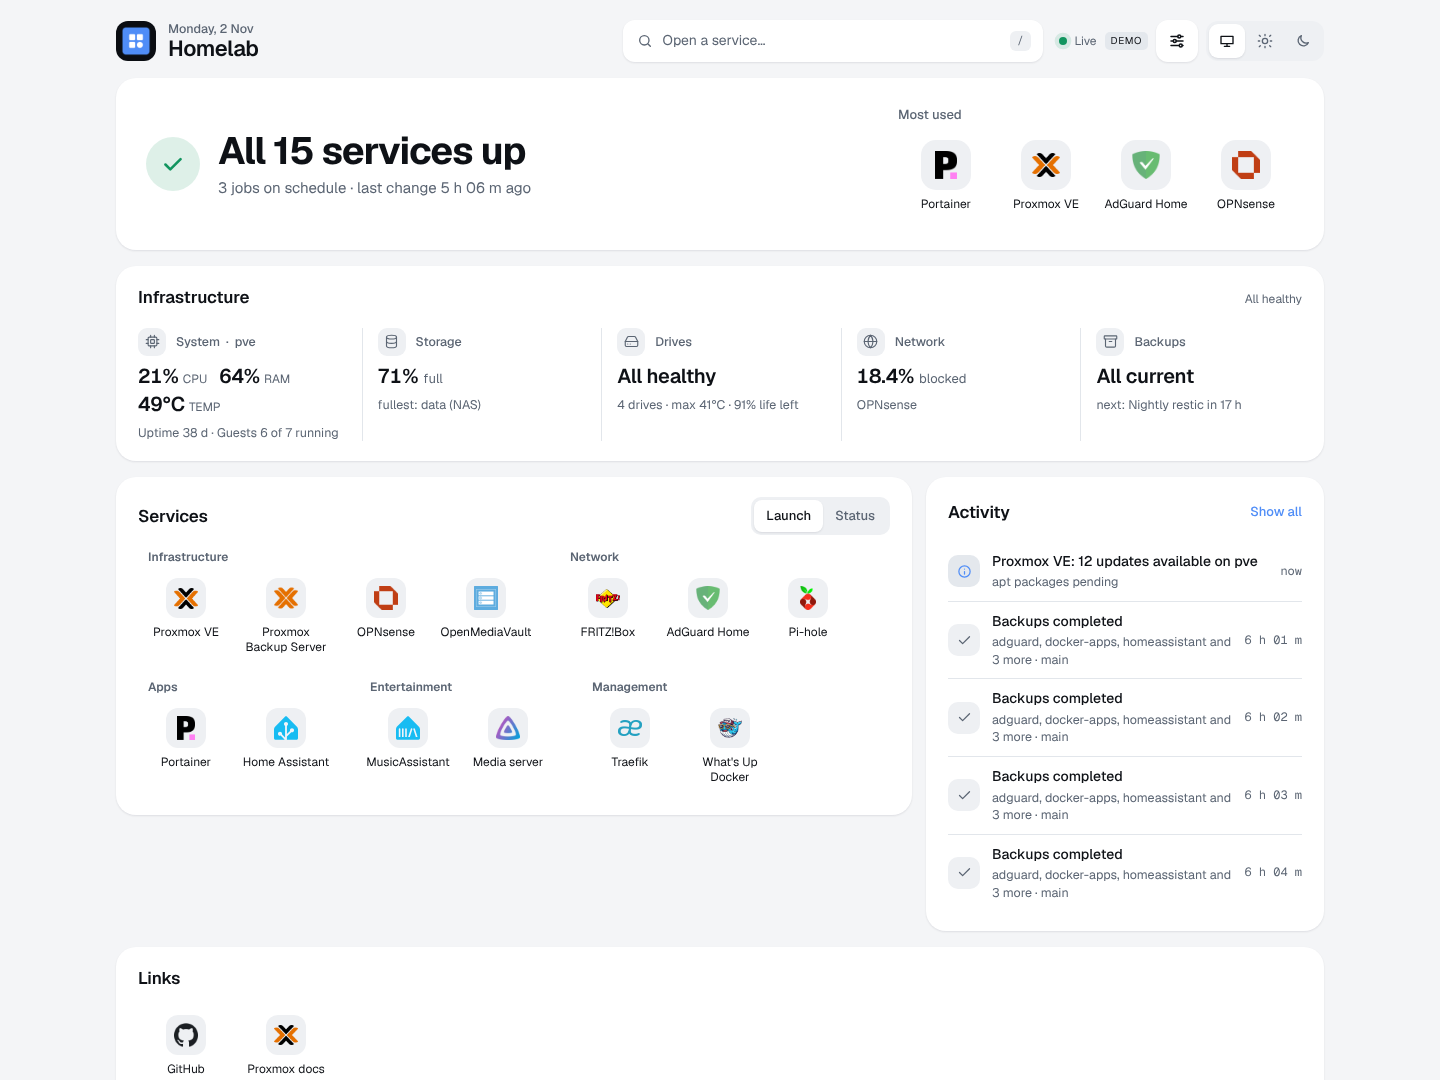
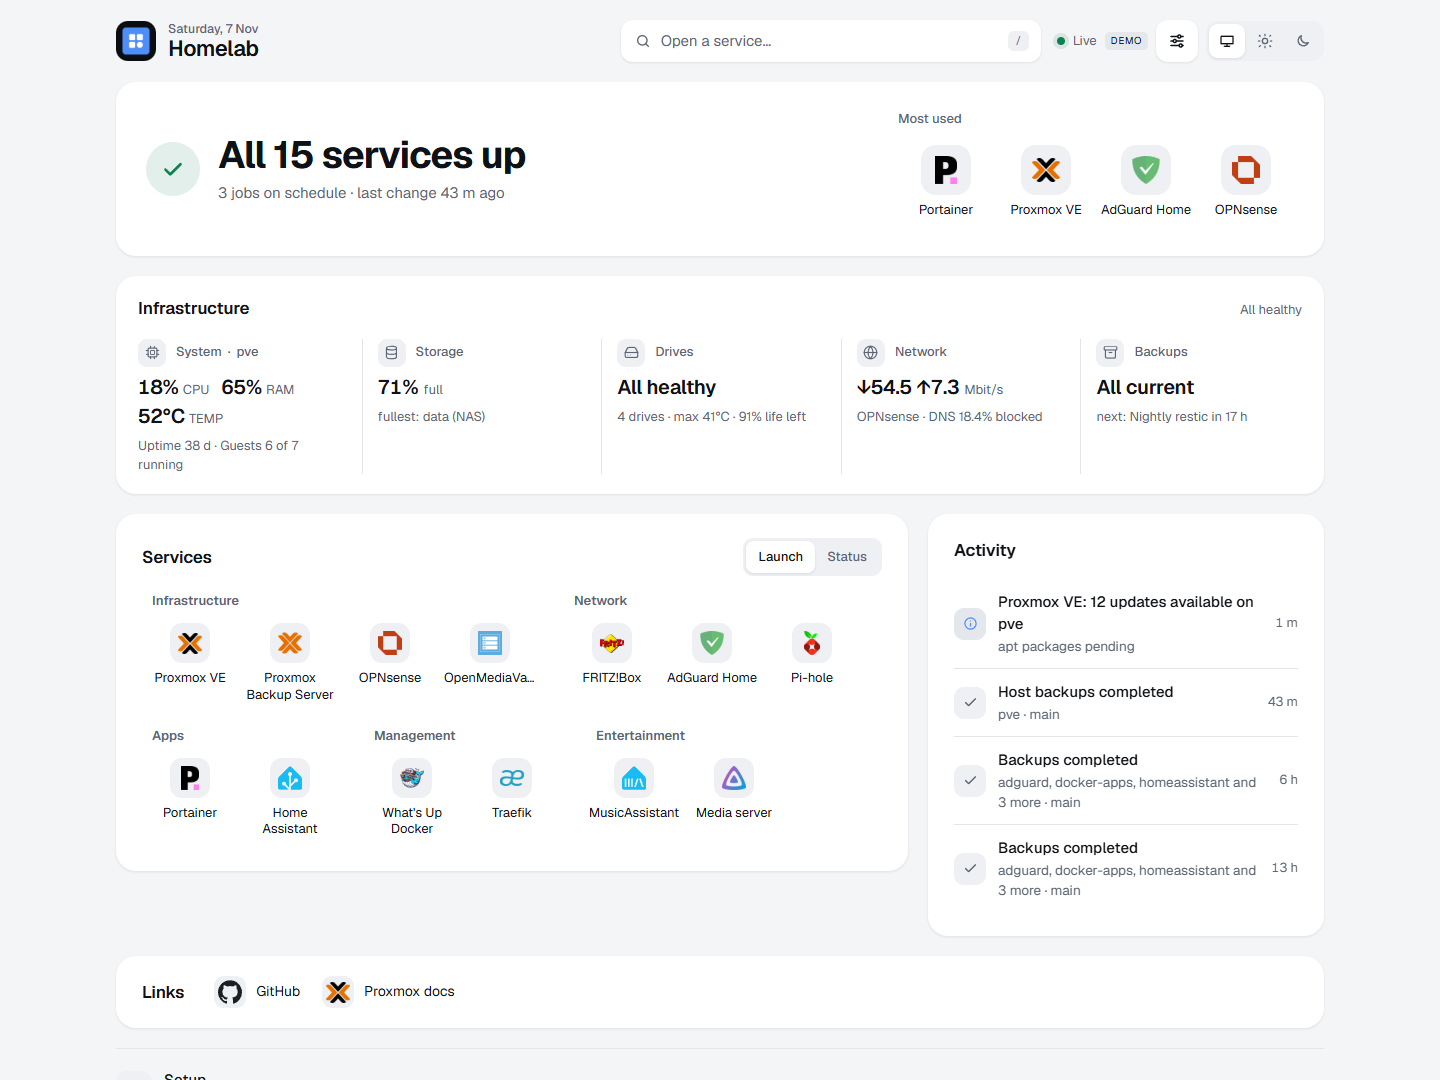
Docs and screenshots for What's Up Docker, Home Assistant and OPNsense updates
README: pending updates from every source and Home Assistant batteries are
notes in Activity; new screenshots from the demo. Deployment: the WUD and
Home Assistant secrets in the stack, and a 403 from a reverse proxy's
allowlist. Integrations: setup-specific detail trimmed.

diff --git a/README.md b/README.md
@@ -8,12 +8,12 @@ A self-hosted launcher and status page for a homelab on **any Docker host**: it 
 
 It is made for your **LAN or VPN** (WireGuard, Tailscale, …): it has no login of its own and must not be reachable from the internet.
 
-![Dashboard in dark mode with problems: the top problem with its Open button, the others that need attention, the most used services, the infrastructure card with a column per area, the launcher and recent activity](docs/screenshots/desktop-dark.png)
+![Dashboard in dark mode with problems: the top problem with its Open button, the others that need attention, the infrastructure card with a column per area, the launcher, and recent activity with pending updates from Proxmox, OPNsense, OpenMediaVault and Home Assistant](docs/screenshots/desktop-dark.png)
 
 - **One glance.** One sentence gives the state ("All 15 services up · 3 jobs on schedule", or the most important problem with a button to open that service), then whatever else needs attention, most severe first. When all is well, the page is short and quiet.
 - **Infrastructure at a glance, details on demand.** One card with an entry per area: **System** (CPU, memory, temperature of the Proxmox node or the machine the dashboard runs on), **Storage** (the fullest), **Drives** (SMART health, hottest drive, least life left), **Network** (WAN traffic, DNS block rate) and **Backups** (PBS and backup jobs, the next one due). Each one opens a sheet with the full detail: 24-hour charts you can scrub through (CPU, memory, disk, temperature), every storage with its fill, grouped by the host or NAS it belongs to, every drive with SMART health, traffic charts, each job's schedule. On a phone the card collapses to the area icons and one sentence: the key figures, or only what needs attention.
 - **Launcher.** The services you open most, picked automatically, then every service with a link, grouped as in `services.yaml`, with nothing on an icon but a small marker when it has a problem. Press `/` or `⌘K` / `Ctrl+K` for the command palette.
-- **Checks.** Services are checked every 30 s over HTTP or `tcp://`, which gives uptime (24 h and 7 d), p95 latency and a 24-hour health strip; the **Status** view of the services, and each service's sheet, show them, and the sheet lists the service's events of the last 7 days. The dashboard also tracks certificate expiry, backup age per guest, failed or unhealthy containers, SMART status and pending Proxmox updates.
+- **Checks.** Services are checked every 30 s over HTTP or `tcp://`, which gives uptime (24 h and 7 d), p95 latency and a 24-hour health strip; the **Status** view of the services, and each service's sheet, show them, and the sheet lists the service's events of the last 7 days. The dashboard also tracks certificate expiry, backup age per guest, failed or unhealthy containers, SMART status and firewall gateways. Pending updates (Proxmox, OpenMediaVault, OPNsense, Home Assistant, and container images through What's Up Docker) and low batteries in Home Assistant are notes in Activity.
 - **Live and installable.** Updates are pushed to the browser as they happen, and a service whose status changes is briefly highlighted. If updates stop, the page says so and greys out instead of showing old data as current. It installs as an app (PWA) on phones and desktops, with the number of open problems on its icon, in light and dark themes.
 - **Works without Proxmox.** On a plain Docker host you still get the machine's vitals, your containers (through a read-only socket proxy), values from any JSON API with alert thresholds, `tcp://` checks for services without a web page, and heartbeats: backup and cron jobs report when they ran, and a missed or failed run becomes an alert.
 - **Works with gethomepage configs.** [gethomepage](https://gethomepage.dev)'s `services.yaml`, `bookmarks.yaml` and icon names work as they are; its `homepage.*` container labels work once renamed to `dashboard.*`. Services without an icon get one automatically.
@@ -26,7 +26,7 @@ It is made for your **LAN or VPN** (WireGuard, Tailscale, …): it has no login 
 
 ![Light mode with everything healthy: "All 15 services up", the most used services, the infrastructure card with a column per area, the launcher and recent activity](docs/screenshots/desktop-light.png)
 
-![On a phone: the top problem and the attention list in dark mode, and in light mode with everything healthy, the collapsed infrastructure card (area icons and the key figures) above the launcher](docs/screenshots/phones.png)
+![On a phone: the top problem, the attention list and the collapsed infrastructure card naming only the problems in dark mode, and in light mode with everything healthy, the most used services and the infrastructure card with the key figures above the launcher](docs/screenshots/phones.png)
 
 Every screenshot shows the built-in demo data (`DEMO=1`), not a real homelab.
 

diff --git a/docs/integrations.md b/docs/integrations.md
@@ -133,7 +133,7 @@ widget:
 | Reads | API path | Privilege |
 |---|---|---|
 | CPU (required) | `/api/diagnostics/activity/*` | Diagnostics: Activity |
-| WAN traffic (required) | `/api/diagnostics/traffic/*` | Diagnostics: Traffic |
+| WAN traffic (required) | `/api/diagnostics/traffic/*` | Reporting: Traffic or Diagnostics: Traffic, depending on the version |
 | Gateways (optional) | `/api/routes/gateway/*` | the one listing that path, e.g. System: Gateways |
 | Services (optional) | `/api/core/service/*` | Status: Services |
 | Firmware (optional) | `/api/core/firmware/*` | System: Firmware |
@@ -142,7 +142,7 @@ Leave out an optional privilege and the widget skips that part without an error.
 
 Traffic rates come from the difference between two polls, so the first value appears one widget interval after startup (*Collecting traffic…*).
 
-The firmware status is the result of OPNsense's last update check, read every 10 minutes; the widget never starts a check itself. OPNsense doesn't check on a schedule by default: add a daily job under System → Settings → Cron with the command **Firmware update check** (not *Automatic firmware update*, which installs them), or run one with **Check for updates** under System → Firmware → Status.
+Firmware updates come from OPNsense's last update check, read every 10 minutes; the widget never starts a check itself.
 
 **Alerts**
 
@@ -293,8 +293,6 @@ widget:
 
 **Account.** Create a user who is not an administrator (Settings → People → Add person, allow login, *Administrator* off), sign in as that user, and create a token under Profile → Security → *Long-lived access tokens*. A non-admin token reads states and the version. Home Assistant renders templates for admins only, so a `template` entry shows *—* with a non-admin token; use `state` entries instead.
 
-The widget reads all states once per widget interval (`GET /api/states`).
-
 **Notes**
 
 | Severity | When |
@@ -320,7 +318,7 @@ widget:
 
 **Account.** WUD's basic auth has no roles, and its API can trigger updates where a trigger is configured. Add a separate user for the dashboard (`WUD_AUTH_BASIC_DASHBOARD_USER` / `_HASH`) so it can be removed on its own.
 
-The widget reads what WUD found on its last check (`WUD_WATCHER_<NAME>_CRON`, hourly by default); it doesn't make WUD check the registries. With several watchers (Docker hosts), each container's note names it by container name.
+The widget reads what WUD found on its last check (`WUD_WATCHER_<NAME>_CRON`, hourly by default); it doesn't make WUD check the registries.
 
 **Notes**
 

diff --git a/docs/deployment.md b/docs/deployment.md
@@ -44,7 +44,7 @@ services:
       XFF_DEPTH: 1
       # NODE_EXTRA_CA_CERTS: /certs/ca.pem   # trust your own CA for widget APIs
     # Credentials arrive as files in /run/secrets, so they don't show up in `docker inspect`
-    secrets: [pve_token_secret, pbs_token_secret, opnsense_key, opnsense_secret, omv_password, adguard_password, pihole_app_password, portainer_key]
+    secrets: [pve_token_secret, pbs_token_secret, opnsense_key, opnsense_secret, omv_password, adguard_password, pihole_app_password, portainer_key, wud_password, ha_token]
     volumes:
       - /opt/docker/dashboard/config:/config:ro   # services/settings/bookmarks + icons; reloads automatically
       - data:/data                                # uptime history (SQLite)
@@ -96,6 +96,8 @@ secrets:
   adguard_password: { environment: ADGUARD_PASSWORD }
   pihole_app_password: { environment: PIHOLE_APP_PASSWORD }
   portainer_key: { environment: PORTAINER_KEY }
+  wud_password: { environment: WUD_PASSWORD }
+  ha_token: { environment: HA_TOKEN }
 
 volumes:
   data:
@@ -239,7 +241,7 @@ The service's status line shows *Stats unavailable*, the reason is a note in **A
 | `Host not found` / `DNS lookup failed` | The container uses the Docker host's DNS server, which may not know your local names. Set `dns:` to your AdGuard / Pi-hole IP. |
 | `Connection refused` / `Timed out` | Check the port and firewall from inside the container: `docker exec dashboard wget -qO- --no-check-certificate <url>`. |
 | `HTTP 401` | Wrong credentials, or the secret didn't load (look for `[config] NAME is not set` in the log). |
-| `HTTP 403` | The account lacks a privilege. See [Integrations](integrations.md). |
+| `HTTP 403` | The account lacks a privilege (see [Integrations](integrations.md)), or the widget URL goes through a reverse proxy whose IP allowlist doesn't include the container. A 403 for a wrong login too means the proxy refused it: point the widget at the service's own address instead. |
 | `DEPTH_ZERO_SELF_SIGNED_CERT`, `UNABLE_TO_VERIFY_LEAF_SIGNATURE` | See [TLS for widget APIs](#tls-for-widget-apis). |
 
 If config changes don't take effect, the bind mount may not pass file-change events into the container (Docker Desktop on Windows, network shares). Restart the container.
